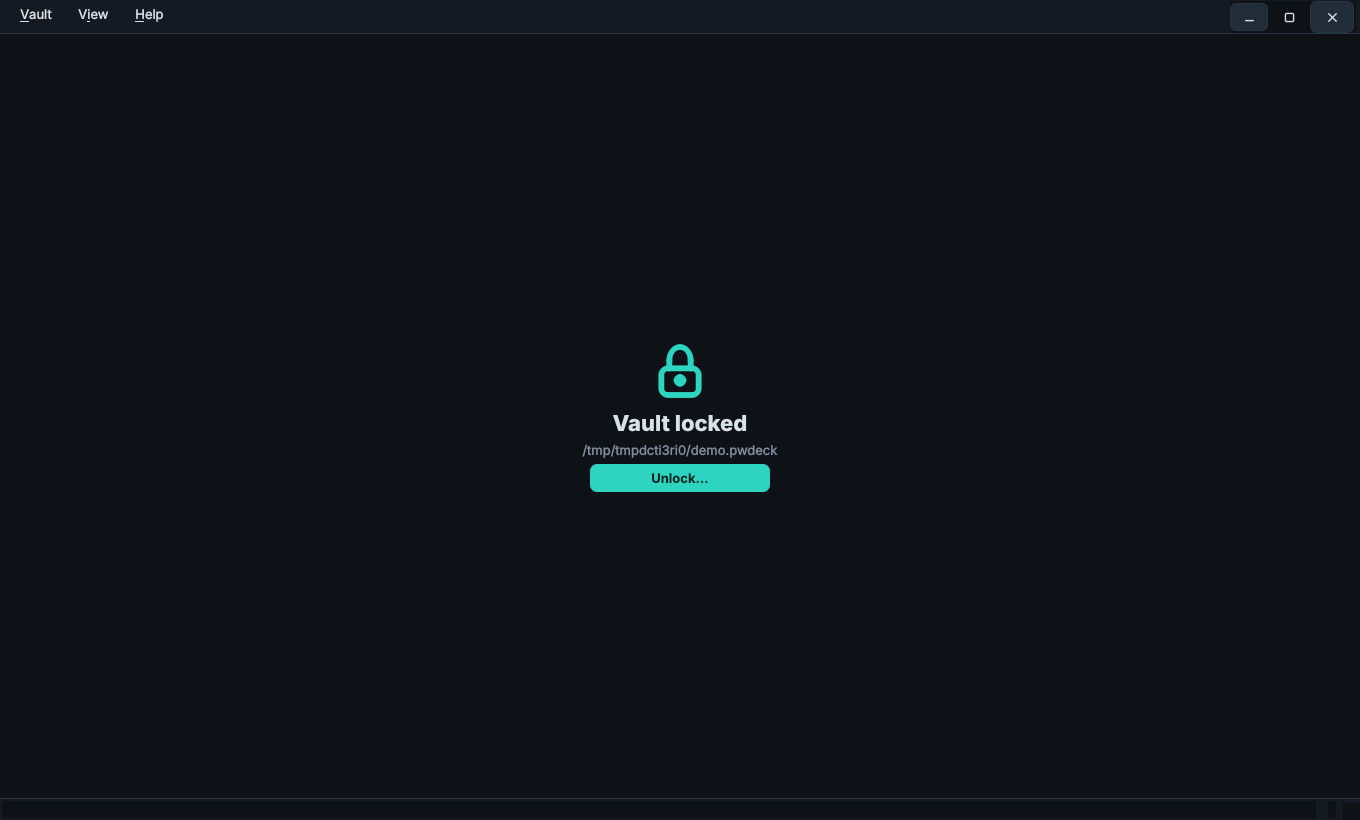
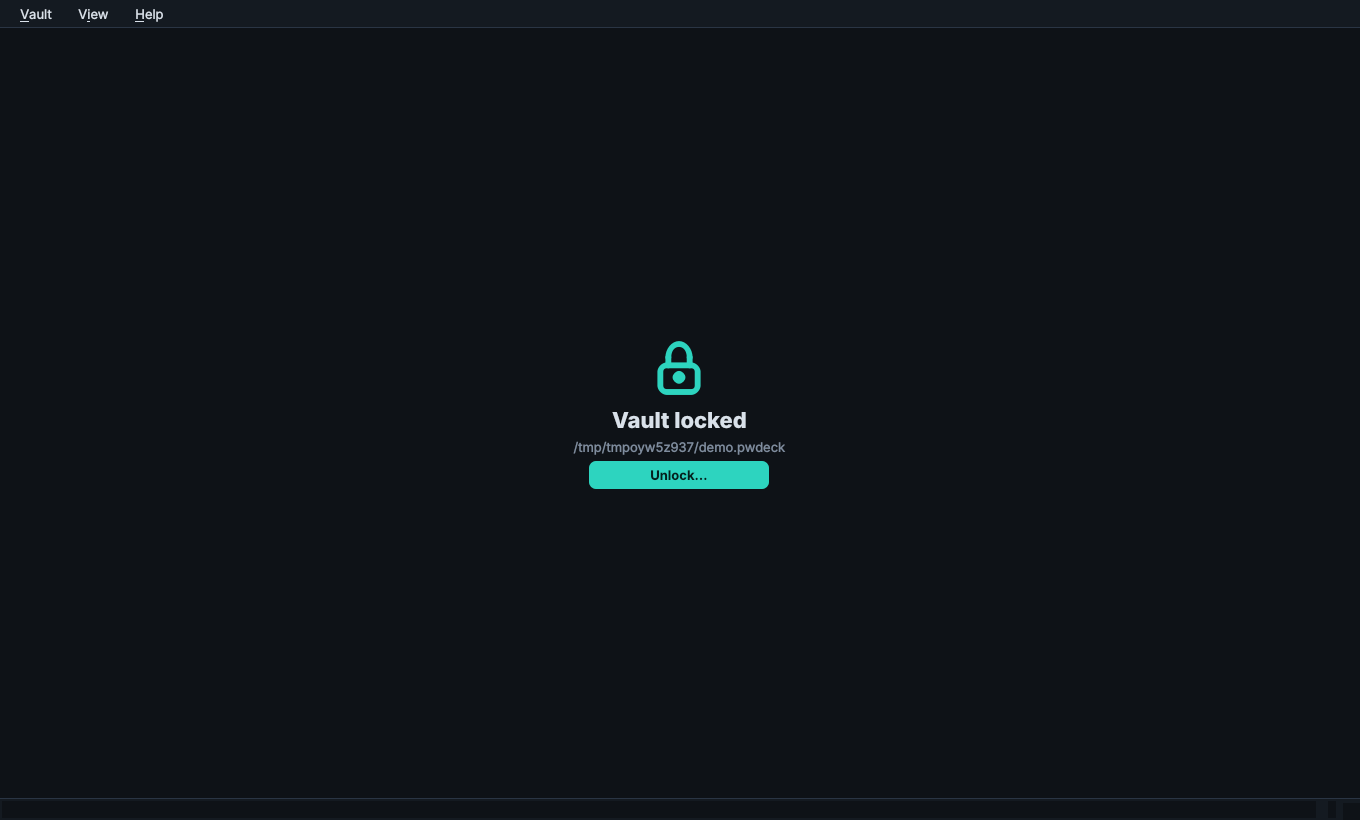
Remove the built-in window buttons: the system title bar must provide them
They were hidden by a fragile heuristic after every restore and duplicated the title bar.
Keeps the menu bar, F11 and Ctrl+Q.

Claude-Session: https://claude.ai/code/session_01JUoeoSAwFaUG4DiKMWGu4R

Changed region(s): [[0.4324, 0.4268, 0.5868, 0.6098], [0.9574, 0.0305, 1.0, 0.061], [0.8956, 0.0305, 0.9265, 0.061]]

diff --git a/pwdeck/mainwindow.py b/pwdeck/mainwindow.py
@@ -188,51 +188,9 @@ class MainWindow(QMainWindow):
             a.setShortcut(QKeySequence(key))
             a.triggered.connect(lambda *_, s=slot: s())
             self.addAction(a)
-        # window buttons for desktops that draw no title bar (some Wayland sessions, X11 without a window manager)
-        self.winbtns = QWidget()
-        hl = QHBoxLayout(self.winbtns)
-        hl.setContentsMargins(0, 0, 2, 0)
-        hl.setSpacing(2)
-        self.btn_min, self.btn_max, self.btn_close = (self._winbtn(n, tip) for n, tip in
-                                                      (("minimize", "Minimize"), ("maximize", "Maximize / restore"), ("close", "Close")))
-        self.btn_close.setObjectName("winclose")
-        self.btn_min.clicked.connect(self.showMinimized)
-        self.btn_max.clicked.connect(self.toggle_maximize)
-        self.btn_close.clicked.connect(self.close)
-        for b in (self.btn_min, self.btn_max, self.btn_close):
-            hl.addWidget(b)
-        mb.setCornerWidget(self.winbtns, Qt.TopRightCorner)
-        self.winbtns.hide()
-
-    def _winbtn(self, name: str, tip: str):
-        from PySide6.QtWidgets import QToolButton
-        b = QToolButton()
-        b.setObjectName("winbtn")
-        b.setIcon(icon(name))
-        b.setIconSize(QSize(15, 15))
-        b.setToolTip(tip)
-        b.setFocusPolicy(Qt.NoFocus)
-        return b
-
-    def toggle_maximize(self) -> None:
-        self.showNormal() if self.isMaximized() else self.showMaximized()
 
     def toggle_fullscreen(self) -> None:
         self.showNormal() if self.isFullScreen() else self.showFullScreen()
-
-    def has_system_decorations(self) -> bool:
-        """True when a title bar surrounds the window (X11 window manager, or Qt's own Wayland decoration)."""
-        fg, g = self.frameGeometry(), self.geometry()
-        return fg.height() - g.height() > 8 or fg.width() - g.width() > 4
-
-    def update_window_buttons(self) -> None:
-        mode = str(self.qs.value("window_buttons", "auto"))
-        show = mode == "always" or (mode == "auto" and not self.has_system_decorations())
-        self.winbtns.setVisible(show and not self.isFullScreen())
-
-    def showEvent(self, ev) -> None:
-        super().showEvent(ev)
-        QTimer.singleShot(700, self.update_window_buttons)        # the frame size is only known once the window is mapped
 
     def about(self) -> None:
         QMessageBox.about(self, "About PW Deck", f"<b>PW Deck {__version__}</b><br>Local password manager, encrypted single-file vault.<br><br>"
@@ -704,7 +662,6 @@ class MainWindow(QMainWindow):
     def open_settings(self) -> None:
         if SettingsDialog(self.qs, self.vault, self).exec():
             self.clip.seconds = int(self.qs.value("clipboard_s", 30))
-            self.update_window_buttons()
 
     # -- backup / import / export
     def backup_menu_popup(self) -> None:

diff --git a/tests/test_ui.py b/tests/test_ui.py
@@ -276,33 +276,3 @@ def test_main_window_offers_new_password_after_recovery_unlock(win, vpath, monke
     assert asked and "recovery key" in asked[0]
     win.vault.close()
     win.vault = None
-
-
-def test_window_buttons_fallback(win, qs):
-    # offscreen has no window manager => no title bar => automatic mode shows the built-in buttons, even while locked
-    win.update_window_buttons()
-    assert not win.has_system_decorations() and not win.winbtns.isHidden()
-    win.lock()
-    assert not win.winbtns.isHidden() and win.menuBar().isVisible()
-    qs.setValue("window_buttons", "never")
-    win.update_window_buttons()
-    assert win.winbtns.isHidden()
-    qs.setValue("window_buttons", "always")
-    win.update_window_buttons()
-    assert not win.winbtns.isHidden()
-    win.btn_max.click()
-    assert win.isMaximized() or True                       # offscreen may ignore the request; the click must not raise
-    win.btn_min.click()
-    win.showNormal()
-    win.toggle_fullscreen()
-    assert win.isFullScreen()
-    win.toggle_fullscreen()
-
-
-def test_window_close_button_closes(win):
-    win.qs.setValue("window_buttons", "always")
-    win.update_window_buttons()
-    closed = []
-    win.closeEvent = lambda ev: (closed.append(1), ev.accept())
-    win.btn_close.click()
-    assert closed

diff --git a/pwdeck/dialogs.py b/pwdeck/dialogs.py
@@ -630,11 +630,6 @@ class SettingsDialog(QDialog):
         self.clip = QSpinBox(minimum=0, maximum=600, value=int(qs.value("clipboard_s", 30)), suffix=" s")
         self.clip.setSpecialValueText("never")
         self.age = QSpinBox(minimum=30, maximum=3650, value=int(qs.value("audit/max_age_days", 365)), suffix=" days")
-        self.winbtn = QComboBox()
-        for label, val in (("Automatic (only if the desktop draws no title bar)", "auto"), ("Always", "always"), ("Never", "never")):
-            self.winbtn.addItem(label, val)
-        self.winbtn.setCurrentIndex(max(0, self.winbtn.findData(str(qs.value("window_buttons", "auto")))))
-        f.addRow("Window buttons", self.winbtn)
         f.addRow("Auto-lock after", self.autolock)
         f.addRow("", self.lock_min)
         f.addRow("", self.lock_susp)
@@ -694,7 +689,6 @@ class SettingsDialog(QDialog):
 
     def _save(self) -> None:
         q = self.qs
-        q.setValue("window_buttons", self.winbtn.currentData())
         q.setValue("autolock_min", self.autolock.value())
         q.setValue("lock_on_minimize", self.lock_min.isChecked())
         q.setValue("lock_on_suspend", self.lock_susp.isChecked())

diff --git a/pwdeck/theme.py b/pwdeck/theme.py
@@ -113,9 +113,6 @@ QPushButton#ghost:hover {{ color: {TEXT}; background: {CARD_HI}; }}
 QMenuBar {{ background: {PANEL}; border-bottom: 1px solid {BORDER}; padding: 1px 4px; }}
 QMenuBar::item {{ padding: 5px 10px; border-radius: 5px; background: transparent; }}
 QMenuBar::item:selected {{ background: {CARD_HI}; }}
-QToolButton#winbtn {{ padding: 4px 9px; border-radius: 6px; background: transparent; border: 1px solid transparent; }}
-QToolButton#winbtn:hover {{ background: {CARD_HI}; border-color: {BORDER}; }}
-QToolButton#winclose:hover {{ background: #7a2a31; border-color: #8f3038; }}
 QToolBar QWidget#spacer {{ background: transparent; }}
 QToolButton#mini {{ padding: 3px 6px; border-radius: 6px; background: transparent; border: 1px solid transparent; }}
 QToolButton#mini:hover {{ background: {CARD_HI}; border-color: {BORDER}; }}
